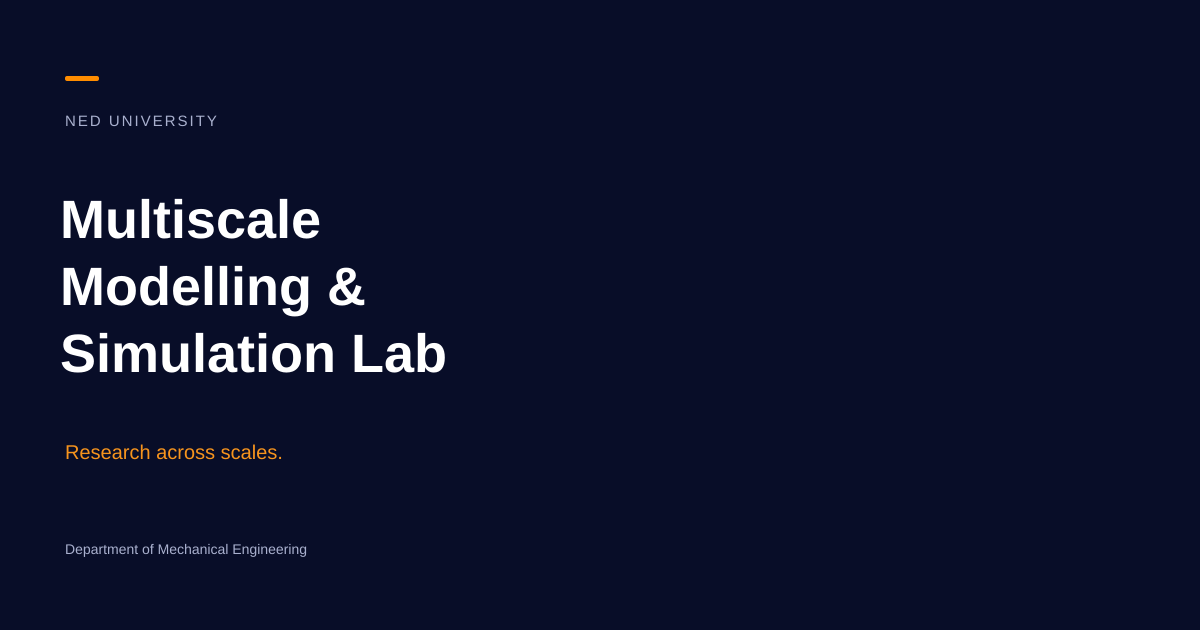
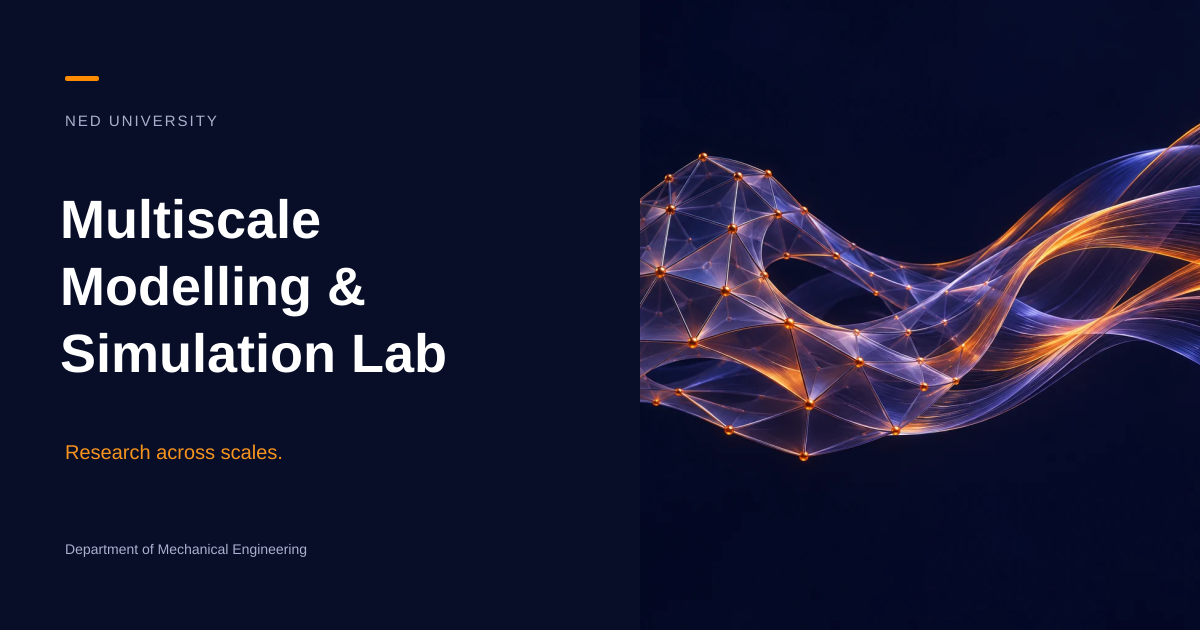
Finalize sharing artwork and record verified deployments

Changed region(s): [[0.5242, 0.181, 1.0, 0.7238]]

diff --git a/cms-backend/sanity.cli.js b/cms-backend/sanity.cli.js
@@ -1,5 +1,6 @@
 import { defineCliConfig } from "sanity/cli";
 export default defineCliConfig({
+  deployment: { appId: "be7c9nq12qsxff1zgzisoo1y" },
   api: {
     projectId: process.env.SANITY_STUDIO_PROJECT_ID || "4isekt9n",
     dataset: process.env.SANITY_STUDIO_DATASET || "production",

diff --git a/docs/DEPLOYMENT-STATUS.md b/docs/DEPLOYMENT-STATUS.md
@@ -1,0 +1,11 @@
+# Deployment status
+
+Review frontend: https://multiscale-lab.vercel.app/
+
+Selected Sanity project: 4isekt9n in organization o6odkcj36. The empty production dataset was populated with 22 website content records and eight uploaded images. Existing records were preserved by the import. The frontend browser was verified loading its hero artwork from cdn.sanity.io/images/4isekt9n/production, confirming that the live site reads the selected CMS.
+
+Vercel Git integration deploys Raazia-Imran/new-lab on main in Raazia's projects. This is a temporary review setup. The client-owned domain and destination Vercel team have not been supplied or connected. Project Node configuration is 24.x; package engines allow supported Node 22.12 through 24 and CI uses 24.
+
+The contact form is intentionally inactive until client-owned Web3Forms configuration is supplied. The privacy notice, official contact details, source achievement claims, partner permissions, full publication records, PDFs and resource downloads require client approval/input. Search indexing remains disabled during review.
+
+Studio deployment succeeded at https://multiscale-ned-lab.sanity.studio/ with schema deployment confirmed. The Studio deployment app ID is be7c9nq12qsxff1zgzisoo1y and is retained in the CLI configuration for future deploys. No earlier developer-created Sanity project exists to delete; the separate NC4SCM project was not modified.

diff --git a/docs/VERIFICATION.md b/docs/VERIFICATION.md
@@ -7,3 +7,7 @@ Desktop browser checks confirmed publication search, its detail dialog, and the 
 The client questionnaire was rendered and reviewed across all eight pages in both Word and PDF. Original lab/client logo assets remain unchanged. New illustration and branding provenance are documented in ASSETS-AND-MOTION.md.
 
 Live deployment and content import are separate checks. The selected Sanity project is 4isekt9n, organization o6odkcj36. Vercel’s temporary review project belongs to Raazia’s projects. The final client domain, official contact details, Web3Forms recipient and all publication PDFs/DOIs remain dependent on client input. No claim is made that unpublished source placeholders have been verified.
+
+## Live checks completed
+
+Vercel frontend returned HTTP 200 for Home, Papers, Resources, Contact, the social card, favicon and robots file. CSP, X-Content-Type-Options, Referrer-Policy, X-Frame-Options and Permissions-Policy were present. The frontend browser loaded its hero image from the selected Sanity CDN project, confirming live content/image delivery. Sanity reported 22 content records and eight image assets. Studio and its schema deployment completed successfully at https://multiscale-ned-lab.sanity.studio/. GitHub Actions passed the redesign commit.

diff --git a/docs/LAUNCH-CHECKLIST.md b/docs/LAUNCH-CHECKLIST.md
@@ -16,8 +16,9 @@
 
 ## Before public domain launch
 
-- [ ] Confirm imported records and deployed Studio in the selected Sanity project.
-- [ ] Confirm the Vercel review deployment uses the intended Git commit and selected dataset.
+- [x] Import 22 records into the selected project and confirm live frontend CMS reads.
+- [x] Deploy Studio and schemas at https://multiscale-ned-lab.sanity.studio/.
+- [x] Confirm the Vercel review deployment uses the redesign commit and selected dataset.
 - [ ] Confirm client Vercel team, plan/billing and domain ownership.
 - [ ] Transfer the Vercel project before domain connection if possible.
 - [ ] Confirm all award, grant, publication and partner claims.
